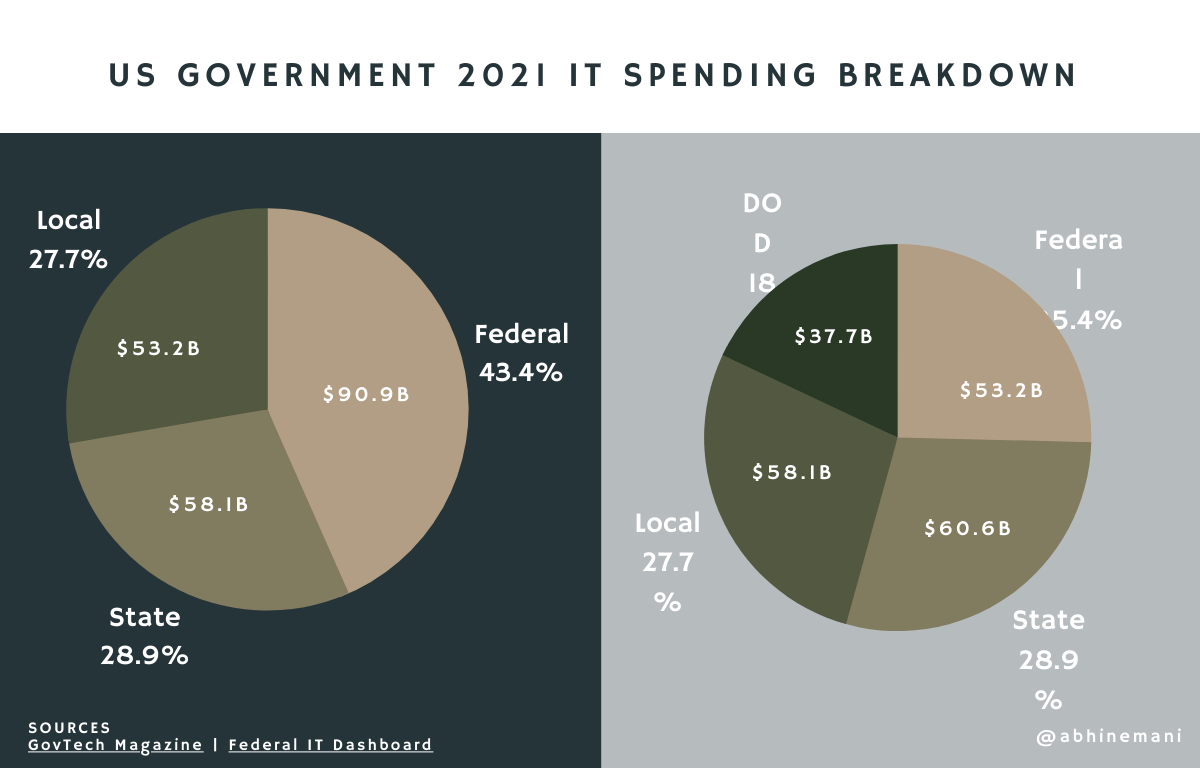
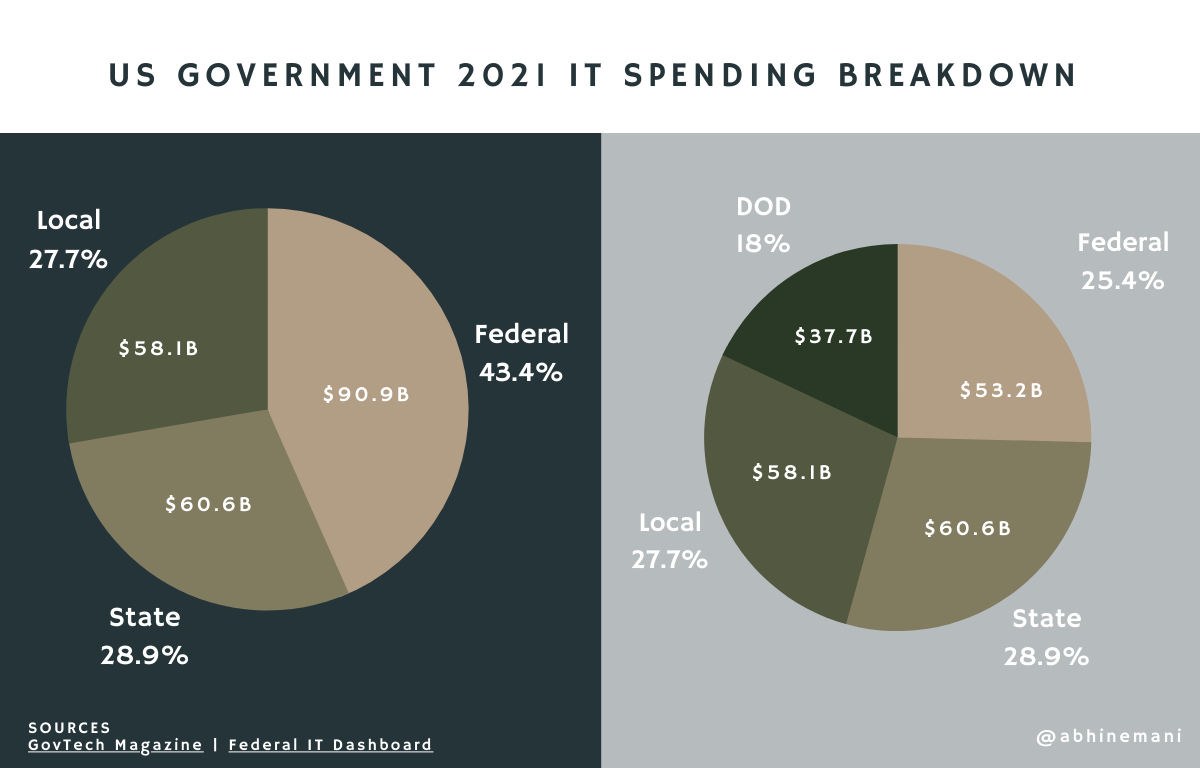
fixed IT lesson

diff --git a/_layouts/press.html b/_layouts/press.html
@@ -7,7 +7,7 @@
                     <div class="breadcrumbs">
                         <div class="wrap wrap-center">
                             <div class="wrap_float">
-                                <a href="index.html">Home</a> / <span class="current">{{ page.categories }}</span>
+                                <a href="index.html">Home</a> / <a href="{{site.url}}/press">Press</a></span>
                             </div>
                         </div>
                     </div>

diff --git a/_lessons/3-it-spending.md b/_lessons/3-it-spending.md
@@ -20,7 +20,7 @@ But sans DOD, that Federal Spend of $53.2B is actually lower than State ($60.6B)
 ## Pulling out DOD, federal, state, and local spending are similar (~$53-60B)
 ![2021 US Government IT Spending Overview - Without DOD](/img/it-spend-2.png)
 
-So much attention goes to the feds/DC, but market opportunity is larger is state + local ($118.7B) than federal, and that number should only grow with post-COVID investments. 
+So much attention goes to the feds/DC, but market opportunity is larger in [State + Local Government](https://www.govtech.com/navigator/data/2019-state-and-local-annual-it-spending.html) ($118.7B) than Federal Government, and that number should only grow with post-COVID investments... 
 
 ### ...and it's growing
 In President Biden’s 2021 stimulus plan: additional $9 Billion for technology — specifically $200M for staffing up federal technologists. (More to come.)

diff --git a/_press/2010-03-23-fastcompany.md b/_press/2010-03-23-fastcompany.md
@@ -6,7 +6,6 @@ categories:
 tags:
 - magazine
 - featured
-img: fastco.png
 image:
   thumb: fastco.png
 link: http://www.fastcompany.com/1702210/how-army-techies-taking-city-hall
